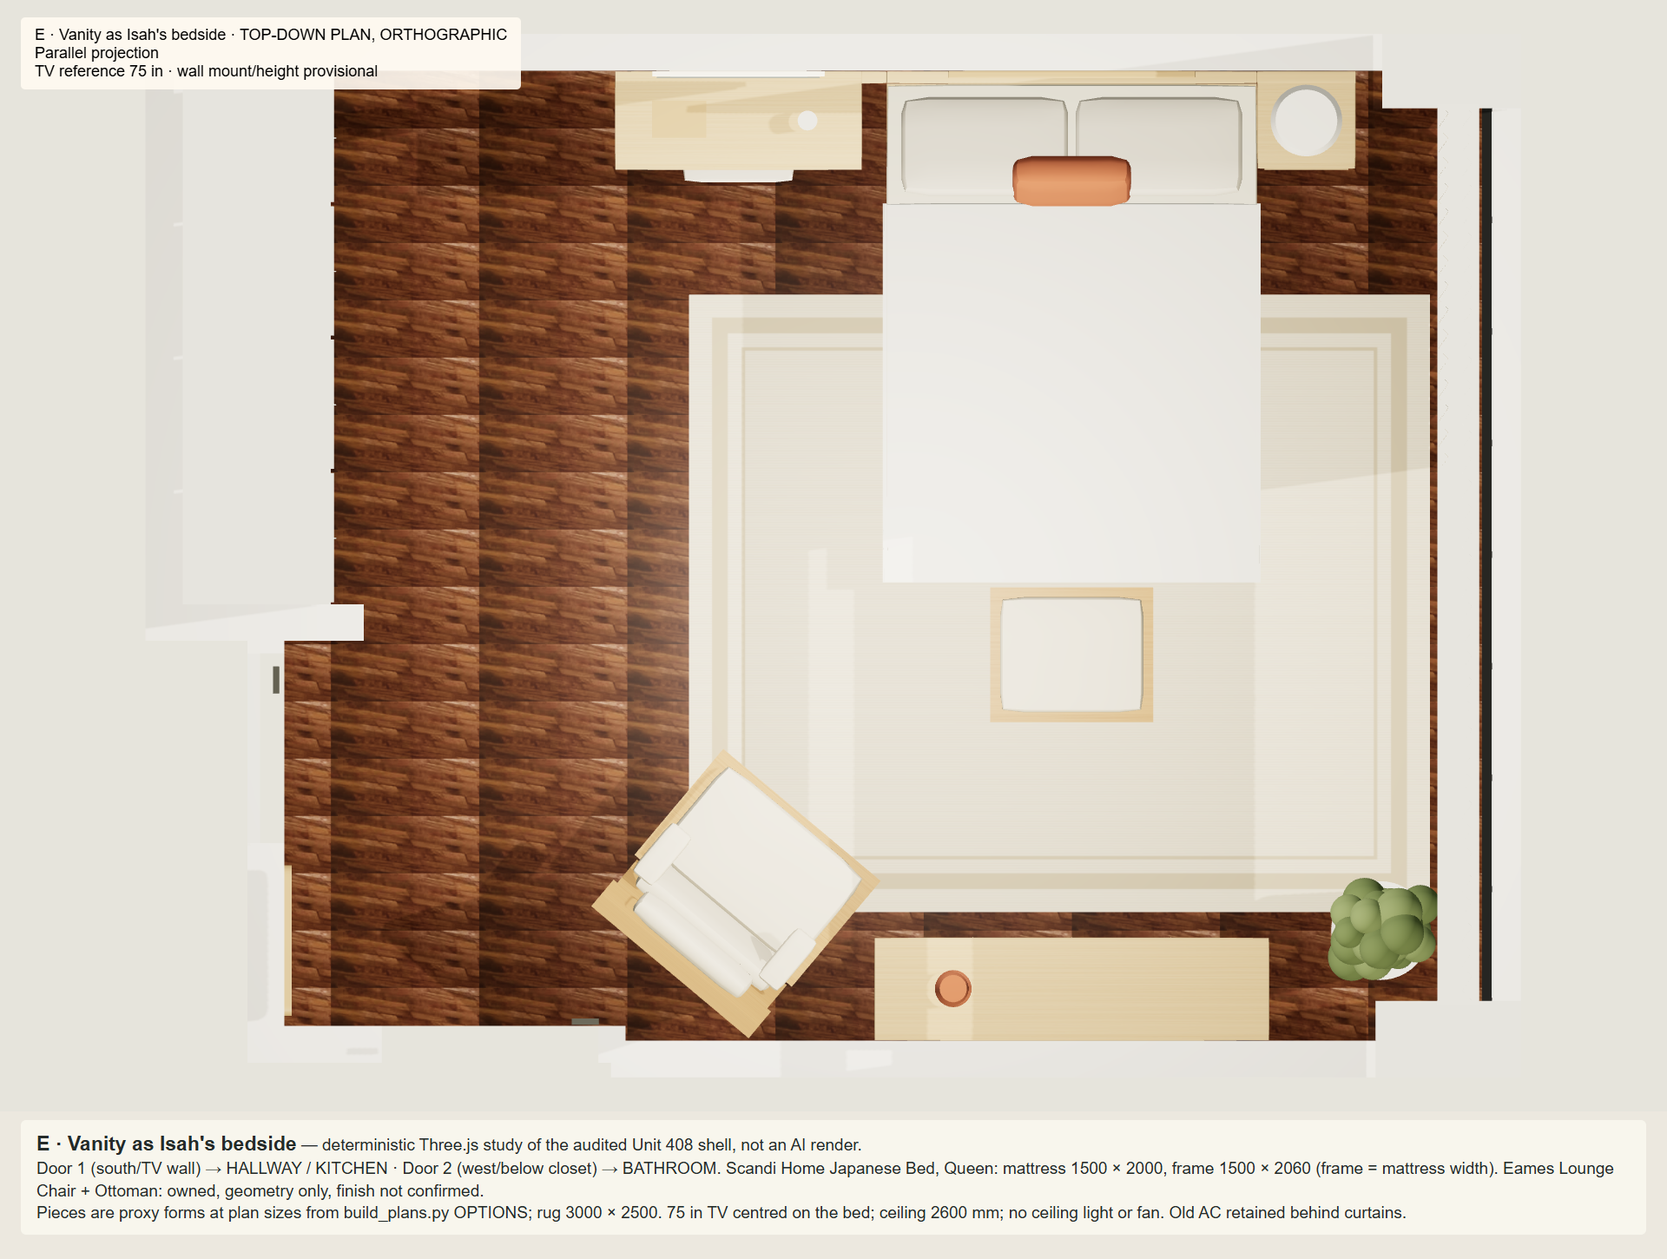
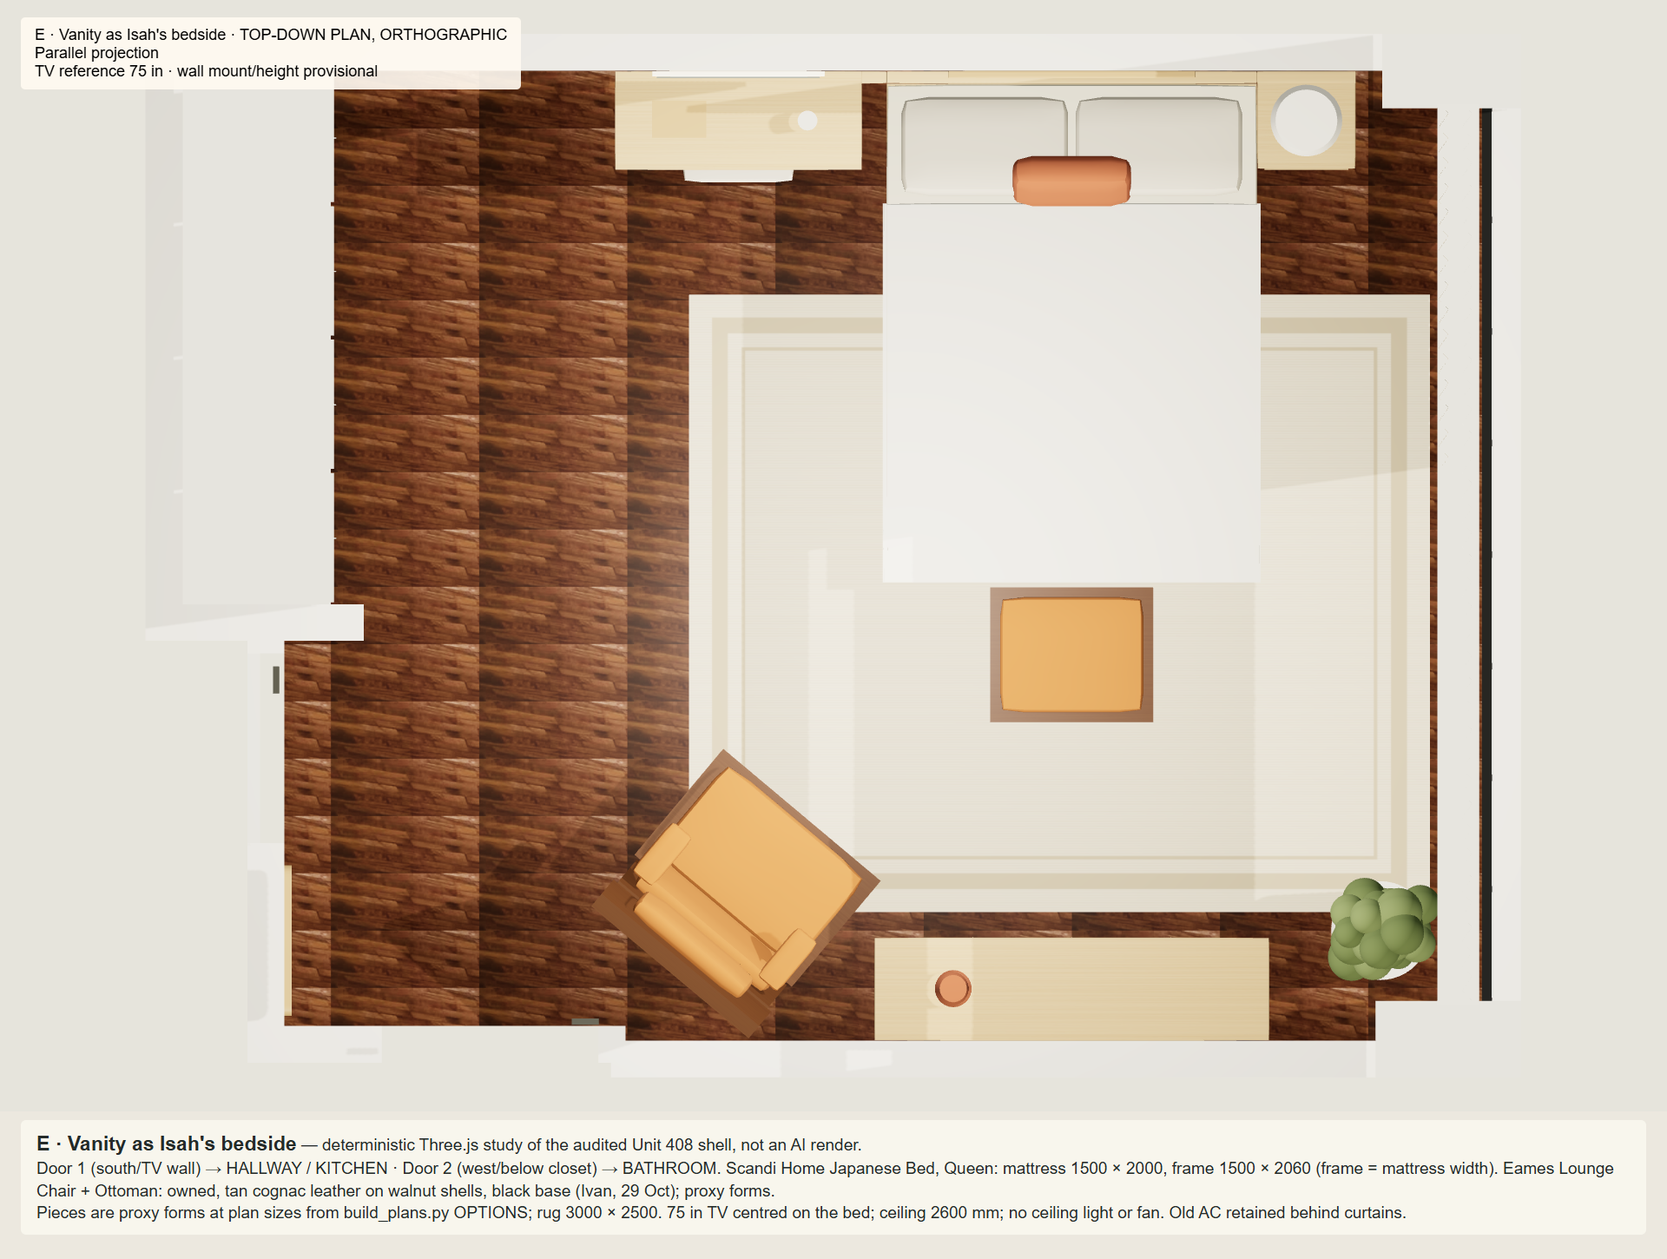
chore(queen): Carry the confirmed Eames finish into the set
Ivan confirmed the Eames pair on 29 Oct: tan cognac leather, walnut
veneer shells, black base. The 16 model views are re-rendered with the
chair and ottoman proxies coloured to that finish and the caption naming
it; the withheld reason and the set-page wording no longer call the
finish unconfirmed. Every view still shows the model view: the photoreal
pass stays behind the Codex quota (resets 2 Nov). Gate 16/16 PASS.

Changed region(s): [[0.3438, 0.5897, 0.5312, 0.8379], [0.5938, 0.4655, 0.7188, 0.5897], [0.125, 0.931, 0.4688, 0.9621]]

diff --git a/queen-oct28/index.html b/queen-oct28/index.html
@@ -18,6 +18,6 @@ figcaption{font-size:.85rem;color:#4d4339;margin-top:.3rem}.withheld figcaption{
 <p>Four layouts around the Scandi Home Japanese Bed, Queen (mattress 1500 x 2000), with room for the couple&#39;s own Eames lounge chair and ottoman, or a vanity. Bed, rug, curtains and walkways are to scale on the room model; each view is checked against that model before an AI style render is shown.</p>
 <p class="small">Day views only: night and golden-hour views do not exist yet for this set. Plan D (bed on the south wall) is excluded. Products beyond the bed are not scheduled yet; nothing here is a purchase list.</p>
 </header>
-<main><section class="scheme" id="plan-A"><h2><span>A</span> Eames corner</h2><p>Bed moves 350 mm west, toward the wardrobe. The Eames lounge chair and ottoman sit beside the TV console, turned 40° toward the bed.</p><p>For Isah: Eames chair + ottoman by the TV, angled to the bed.</p><ul><li>The 350 mm shift is what lets the ottoman stay in front of the chair and still leave about 0.65 m to walk to the window side of the bed.</li><li>Window side stays open; the plant fills the corner beside the right bedside.</li></ul><p class="small">Plan checks: 12 of 12 pass on the to-scale drawing.</p><div class="grid"><figure class="plan"><a href="assets/QA-room-plan.png"><img loading="lazy" src="assets/QA-room-plan.png" alt="Plan A, bird&#39;s-eye model view"></a><figcaption>Bird&#39;s-eye model view · plan A, true scale</figcaption></figure><figure class="withheld"><a href="assets/QA-room-entry.png"><img loading="lazy" src="assets/QA-room-entry.png" alt="Plan A · Entrance door · Day, model view"></a><figcaption><strong>Entrance door · Day</strong> · Deterministic room-model view at true scale, not an AI render (Entrance door · Day, eye 1.55 m). Render withheld: photoreal render staged behind the Codex image quota (resets 2 Nov 2026 14:08 PHT); the Eames chair finish must be confirmed by Ivan before the pass runs</figcaption></figure><figure class="withheld"><a href="assets/QA-room-bathroom.png"><img loading="lazy" src="assets/QA-room-bathroom.png" alt="Plan A · Bathroom door · Day, model view"></a><figcaption><strong>Bathroom door · Day</strong> · Deterministic room-model view at true scale, not an AI render (Bathroom door · Day, eye 1.55 m). Render withheld: photoreal render staged behind the Codex image quota (resets 2 Nov 2026 14:08 PHT); the Eames chair finish must be confirmed by Ivan before the pass runs</figcaption></figure><figure class="withheld"><a href="assets/QA-room-windowac.png"><img loading="lazy" src="assets/QA-room-windowac.png" alt="Plan A · Window corner · Day, model view"></a><figcaption><strong>Window corner · Day</strong> · Deterministic room-model view at true scale, not an AI render (Window corner · Day, eye 1.55 m). Render withheld: photoreal render staged behind the Codex image quota (resets 2 Nov 2026 14:08 PHT); the Eames chair finish must be confirmed by Ivan before the pass runs</figcaption></figure></div></section><section class="scheme" id="plan-B"><h2><span>B</span> Window vanity</h2><p>Bed moves 350 mm west, toward the wardrobe. A vanity sits on the north wall beside the window, lit from the side.</p><p>For Isah: Vanity 900 × 400 + stool, daylight from the right.</p><ul><li>Best make-up light: window to the side, never behind her.</li><li>Plant holds the south-east corner; the Eames can still go there later (see C).</li></ul><p class="small">Plan checks: 13 of 13 pass on the to-scale drawing.</p><div class="grid"><figure class="plan"><a href="assets/QB-room-plan.png"><img loading="lazy" src="assets/QB-room-plan.png" alt="Plan B, bird&#39;s-eye model view"></a><figcaption>Bird&#39;s-eye model view · plan B, true scale</figcaption></figure><figure class="withheld"><a href="assets/QB-room-entry.png"><img loading="lazy" src="assets/QB-room-entry.png" alt="Plan B · Entrance door · Day, model view"></a><figcaption><strong>Entrance door · Day</strong> · Deterministic room-model view at true scale, not an AI render (Entrance door · Day, eye 1.55 m). Render withheld: photoreal render staged behind the Codex image quota (resets 2 Nov 2026 14:08 PHT); the Eames chair finish must be confirmed by Ivan before the pass runs</figcaption></figure><figure class="withheld"><a href="assets/QB-room-bathroom.png"><img loading="lazy" src="assets/QB-room-bathroom.png" alt="Plan B · Bathroom door · Day, model view"></a><figcaption><strong>Bathroom door · Day</strong> · Deterministic room-model view at true scale, not an AI render (Bathroom door · Day, eye 1.55 m). Render withheld: photoreal render staged behind the Codex image quota (resets 2 Nov 2026 14:08 PHT); the Eames chair finish must be confirmed by Ivan before the pass runs</figcaption></figure><figure class="withheld"><a href="assets/QB-room-windowac.png"><img loading="lazy" src="assets/QB-room-windowac.png" alt="Plan B · Window corner · Day, model view"></a><figcaption><strong>Window corner · Day</strong> · Deterministic room-model view at true scale, not an AI render (Window corner · Day, eye 1.55 m). Render withheld: photoreal render staged behind the Codex image quota (resets 2 Nov 2026 14:08 PHT); the Eames chair finish must be confirmed by Ivan before the pass runs</figcaption></figure></div></section><section class="scheme" id="plan-C"><h2><span>C</span> Vanity + Eames corner</h2><p>Plan B plus the Eames lounge chair and ottoman beside the console, turned 40° toward the bed.</p><p>For Isah: Vanity by the window + Eames by the TV.</p><ul><li>Most for Isah, and still every walkway passes, ottoman in place.</li><li>The chair sits under the split AC (high on the wall); the plant moves to the window beside it.</li></ul><p class="small">Plan checks: 14 of 14 pass on the to-scale drawing.</p><div class="grid"><figure class="plan"><a href="assets/QC-room-plan.png"><img loading="lazy" src="assets/QC-room-plan.png" alt="Plan C, bird&#39;s-eye model view"></a><figcaption>Bird&#39;s-eye model view · plan C, true scale</figcaption></figure><figure class="withheld"><a href="assets/QC-room-entry.png"><img loading="lazy" src="assets/QC-room-entry.png" alt="Plan C · Entrance door · Day, model view"></a><figcaption><strong>Entrance door · Day</strong> · Deterministic room-model view at true scale, not an AI render (Entrance door · Day, eye 1.55 m). Render withheld: photoreal render staged behind the Codex image quota (resets 2 Nov 2026 14:08 PHT); the Eames chair finish must be confirmed by Ivan before the pass runs</figcaption></figure><figure class="withheld"><a href="assets/QC-room-bathroom.png"><img loading="lazy" src="assets/QC-room-bathroom.png" alt="Plan C · Bathroom door · Day, model view"></a><figcaption><strong>Bathroom door · Day</strong> · Deterministic room-model view at true scale, not an AI render (Bathroom door · Day, eye 1.55 m). Render withheld: photoreal render staged behind the Codex image quota (resets 2 Nov 2026 14:08 PHT); the Eames chair finish must be confirmed by Ivan before the pass runs</figcaption></figure><figure class="withheld"><a href="assets/QC-room-windowac.png"><img loading="lazy" src="assets/QC-room-windowac.png" alt="Plan C · Window corner · Day, model view"></a><figcaption><strong>Window corner · Day</strong> · Deterministic room-model view at true scale, not an AI render (Window corner · Day, eye 1.55 m). Render withheld: photoreal render staged behind the Codex image quota (resets 2 Nov 2026 14:08 PHT); the Eames chair finish must be confirmed by Ivan before the pass runs</figcaption></figure></div></section><section class="scheme" id="plan-E"><h2><span>E</span> Vanity as Isah&#x27;s bedside</h2><p>Bed moves 650 mm east toward the window. A long vanity replaces Isah&#x27;s bedside table; the Eames sits on the console&#x27;s door side.</p><p>For Isah: Vanity doubles as her nightstand + Eames.</p><ul><li>The ottoman lives at the foot of the bed. Pulled in front of the chair (dashed) it leaves only about 0.35 m to the window side of the bed, so slide it back after sitting.</li><li>Vanity is 3 m from the window: needs a lit mirror for make-up.</li><li>The TV&#x27;s right 0.66 m sits under the split AC (high on the wall): ask the installer about drip and airflow.</li></ul><p class="small">Plan checks: 13 of 14 pass on the to-scale drawing.</p><div class="grid"><figure class="plan"><a href="assets/QE-room-plan.png"><img loading="lazy" src="assets/QE-room-plan.png" alt="Plan E, bird&#39;s-eye model view"></a><figcaption>Bird&#39;s-eye model view · plan E, true scale</figcaption></figure><figure class="withheld"><a href="assets/QE-room-entry.png"><img loading="lazy" src="assets/QE-room-entry.png" alt="Plan E · Entrance door · Day, model view"></a><figcaption><strong>Entrance door · Day</strong> · Deterministic room-model view at true scale, not an AI render (Entrance door · Day, eye 1.55 m). Render withheld: photoreal render staged behind the Codex image quota (resets 2 Nov 2026 14:08 PHT); the Eames chair finish must be confirmed by Ivan before the pass runs</figcaption></figure><figure class="withheld"><a href="assets/QE-room-bathroom.png"><img loading="lazy" src="assets/QE-room-bathroom.png" alt="Plan E · Bathroom door · Day, model view"></a><figcaption><strong>Bathroom door · Day</strong> · Deterministic room-model view at true scale, not an AI render (Bathroom door · Day, eye 1.55 m). Render withheld: photoreal render staged behind the Codex image quota (resets 2 Nov 2026 14:08 PHT); the Eames chair finish must be confirmed by Ivan before the pass runs</figcaption></figure><figure class="withheld"><a href="assets/QE-room-windowac.png"><img loading="lazy" src="assets/QE-room-windowac.png" alt="Plan E · Window corner · Day, model view"></a><figcaption><strong>Window corner · Day</strong> · Deterministic room-model view at true scale, not an AI render (Window corner · Day, eye 1.55 m). Render withheld: photoreal render staged behind the Codex image quota (resets 2 Nov 2026 14:08 PHT); the Eames chair finish must be confirmed by Ivan before the pass runs</figcaption></figure></div></section>
-<section class="scheme"><h2>Before ordering</h2><p>The bed frame is 1500 mm wide (frame = mattress width on Scandi Home&#39;s size chart). The Eames chair and ottoman are the couple&#39;s own; their finish is not confirmed, so the model views show geometry only. The ceiling is 2600 mm in the model, not taped. Views marked withheld show the true-scale model view because their render did not pass QA.</p></section>
+<main><section class="scheme" id="plan-A"><h2><span>A</span> Eames corner</h2><p>Bed moves 350 mm west, toward the wardrobe. The Eames lounge chair and ottoman sit beside the TV console, turned 40° toward the bed.</p><p>For Isah: Eames chair + ottoman by the TV, angled to the bed.</p><ul><li>The 350 mm shift is what lets the ottoman stay in front of the chair and still leave about 0.65 m to walk to the window side of the bed.</li><li>Window side stays open; the plant fills the corner beside the right bedside.</li></ul><p class="small">Plan checks: 12 of 12 pass on the to-scale drawing.</p><div class="grid"><figure class="plan"><a href="assets/QA-room-plan.png"><img loading="lazy" src="assets/QA-room-plan.png" alt="Plan A, bird&#39;s-eye model view"></a><figcaption>Bird&#39;s-eye model view · plan A, true scale</figcaption></figure><figure class="withheld"><a href="assets/QA-room-entry.png"><img loading="lazy" src="assets/QA-room-entry.png" alt="Plan A · Entrance door · Day, model view"></a><figcaption><strong>Entrance door · Day</strong> · Deterministic room-model view at true scale, not an AI render (Entrance door · Day, eye 1.55 m). Render withheld: photoreal render staged behind the Codex image quota (resets 2 Nov 2026 14:08 PHT); Eames finish confirmed by Ivan on 29 Oct: tan cognac leather, walnut veneer shells, black base</figcaption></figure><figure class="withheld"><a href="assets/QA-room-bathroom.png"><img loading="lazy" src="assets/QA-room-bathroom.png" alt="Plan A · Bathroom door · Day, model view"></a><figcaption><strong>Bathroom door · Day</strong> · Deterministic room-model view at true scale, not an AI render (Bathroom door · Day, eye 1.55 m). Render withheld: photoreal render staged behind the Codex image quota (resets 2 Nov 2026 14:08 PHT); Eames finish confirmed by Ivan on 29 Oct: tan cognac leather, walnut veneer shells, black base</figcaption></figure><figure class="withheld"><a href="assets/QA-room-windowac.png"><img loading="lazy" src="assets/QA-room-windowac.png" alt="Plan A · Window corner · Day, model view"></a><figcaption><strong>Window corner · Day</strong> · Deterministic room-model view at true scale, not an AI render (Window corner · Day, eye 1.55 m). Render withheld: photoreal render staged behind the Codex image quota (resets 2 Nov 2026 14:08 PHT); Eames finish confirmed by Ivan on 29 Oct: tan cognac leather, walnut veneer shells, black base</figcaption></figure></div></section><section class="scheme" id="plan-B"><h2><span>B</span> Window vanity</h2><p>Bed moves 350 mm west, toward the wardrobe. A vanity sits on the north wall beside the window, lit from the side.</p><p>For Isah: Vanity 900 × 400 + stool, daylight from the right.</p><ul><li>Best make-up light: window to the side, never behind her.</li><li>Plant holds the south-east corner; the Eames can still go there later (see C).</li></ul><p class="small">Plan checks: 13 of 13 pass on the to-scale drawing.</p><div class="grid"><figure class="plan"><a href="assets/QB-room-plan.png"><img loading="lazy" src="assets/QB-room-plan.png" alt="Plan B, bird&#39;s-eye model view"></a><figcaption>Bird&#39;s-eye model view · plan B, true scale</figcaption></figure><figure class="withheld"><a href="assets/QB-room-entry.png"><img loading="lazy" src="assets/QB-room-entry.png" alt="Plan B · Entrance door · Day, model view"></a><figcaption><strong>Entrance door · Day</strong> · Deterministic room-model view at true scale, not an AI render (Entrance door · Day, eye 1.55 m). Render withheld: photoreal render staged behind the Codex image quota (resets 2 Nov 2026 14:08 PHT); Eames finish confirmed by Ivan on 29 Oct: tan cognac leather, walnut veneer shells, black base</figcaption></figure><figure class="withheld"><a href="assets/QB-room-bathroom.png"><img loading="lazy" src="assets/QB-room-bathroom.png" alt="Plan B · Bathroom door · Day, model view"></a><figcaption><strong>Bathroom door · Day</strong> · Deterministic room-model view at true scale, not an AI render (Bathroom door · Day, eye 1.55 m). Render withheld: photoreal render staged behind the Codex image quota (resets 2 Nov 2026 14:08 PHT); Eames finish confirmed by Ivan on 29 Oct: tan cognac leather, walnut veneer shells, black base</figcaption></figure><figure class="withheld"><a href="assets/QB-room-windowac.png"><img loading="lazy" src="assets/QB-room-windowac.png" alt="Plan B · Window corner · Day, model view"></a><figcaption><strong>Window corner · Day</strong> · Deterministic room-model view at true scale, not an AI render (Window corner · Day, eye 1.55 m). Render withheld: photoreal render staged behind the Codex image quota (resets 2 Nov 2026 14:08 PHT); Eames finish confirmed by Ivan on 29 Oct: tan cognac leather, walnut veneer shells, black base</figcaption></figure></div></section><section class="scheme" id="plan-C"><h2><span>C</span> Vanity + Eames corner</h2><p>Plan B plus the Eames lounge chair and ottoman beside the console, turned 40° toward the bed.</p><p>For Isah: Vanity by the window + Eames by the TV.</p><ul><li>Most for Isah, and still every walkway passes, ottoman in place.</li><li>The chair sits under the split AC (high on the wall); the plant moves to the window beside it.</li></ul><p class="small">Plan checks: 14 of 14 pass on the to-scale drawing.</p><div class="grid"><figure class="plan"><a href="assets/QC-room-plan.png"><img loading="lazy" src="assets/QC-room-plan.png" alt="Plan C, bird&#39;s-eye model view"></a><figcaption>Bird&#39;s-eye model view · plan C, true scale</figcaption></figure><figure class="withheld"><a href="assets/QC-room-entry.png"><img loading="lazy" src="assets/QC-room-entry.png" alt="Plan C · Entrance door · Day, model view"></a><figcaption><strong>Entrance door · Day</strong> · Deterministic room-model view at true scale, not an AI render (Entrance door · Day, eye 1.55 m). Render withheld: photoreal render staged behind the Codex image quota (resets 2 Nov 2026 14:08 PHT); Eames finish confirmed by Ivan on 29 Oct: tan cognac leather, walnut veneer shells, black base</figcaption></figure><figure class="withheld"><a href="assets/QC-room-bathroom.png"><img loading="lazy" src="assets/QC-room-bathroom.png" alt="Plan C · Bathroom door · Day, model view"></a><figcaption><strong>Bathroom door · Day</strong> · Deterministic room-model view at true scale, not an AI render (Bathroom door · Day, eye 1.55 m). Render withheld: photoreal render staged behind the Codex image quota (resets 2 Nov 2026 14:08 PHT); Eames finish confirmed by Ivan on 29 Oct: tan cognac leather, walnut veneer shells, black base</figcaption></figure><figure class="withheld"><a href="assets/QC-room-windowac.png"><img loading="lazy" src="assets/QC-room-windowac.png" alt="Plan C · Window corner · Day, model view"></a><figcaption><strong>Window corner · Day</strong> · Deterministic room-model view at true scale, not an AI render (Window corner · Day, eye 1.55 m). Render withheld: photoreal render staged behind the Codex image quota (resets 2 Nov 2026 14:08 PHT); Eames finish confirmed by Ivan on 29 Oct: tan cognac leather, walnut veneer shells, black base</figcaption></figure></div></section><section class="scheme" id="plan-E"><h2><span>E</span> Vanity as Isah&#x27;s bedside</h2><p>Bed moves 650 mm east toward the window. A long vanity replaces Isah&#x27;s bedside table; the Eames sits on the console&#x27;s door side.</p><p>For Isah: Vanity doubles as her nightstand + Eames.</p><ul><li>The ottoman lives at the foot of the bed. Pulled in front of the chair (dashed) it leaves only about 0.35 m to the window side of the bed, so slide it back after sitting.</li><li>Vanity is 3 m from the window: needs a lit mirror for make-up.</li><li>The TV&#x27;s right 0.66 m sits under the split AC (high on the wall): ask the installer about drip and airflow.</li></ul><p class="small">Plan checks: 13 of 14 pass on the to-scale drawing.</p><div class="grid"><figure class="plan"><a href="assets/QE-room-plan.png"><img loading="lazy" src="assets/QE-room-plan.png" alt="Plan E, bird&#39;s-eye model view"></a><figcaption>Bird&#39;s-eye model view · plan E, true scale</figcaption></figure><figure class="withheld"><a href="assets/QE-room-entry.png"><img loading="lazy" src="assets/QE-room-entry.png" alt="Plan E · Entrance door · Day, model view"></a><figcaption><strong>Entrance door · Day</strong> · Deterministic room-model view at true scale, not an AI render (Entrance door · Day, eye 1.55 m). Render withheld: photoreal render staged behind the Codex image quota (resets 2 Nov 2026 14:08 PHT); Eames finish confirmed by Ivan on 29 Oct: tan cognac leather, walnut veneer shells, black base</figcaption></figure><figure class="withheld"><a href="assets/QE-room-bathroom.png"><img loading="lazy" src="assets/QE-room-bathroom.png" alt="Plan E · Bathroom door · Day, model view"></a><figcaption><strong>Bathroom door · Day</strong> · Deterministic room-model view at true scale, not an AI render (Bathroom door · Day, eye 1.55 m). Render withheld: photoreal render staged behind the Codex image quota (resets 2 Nov 2026 14:08 PHT); Eames finish confirmed by Ivan on 29 Oct: tan cognac leather, walnut veneer shells, black base</figcaption></figure><figure class="withheld"><a href="assets/QE-room-windowac.png"><img loading="lazy" src="assets/QE-room-windowac.png" alt="Plan E · Window corner · Day, model view"></a><figcaption><strong>Window corner · Day</strong> · Deterministic room-model view at true scale, not an AI render (Window corner · Day, eye 1.55 m). Render withheld: photoreal render staged behind the Codex image quota (resets 2 Nov 2026 14:08 PHT); Eames finish confirmed by Ivan on 29 Oct: tan cognac leather, walnut veneer shells, black base</figcaption></figure></div></section>
+<section class="scheme"><h2>Before ordering</h2><p>The bed frame is 1500 mm wide (frame = mattress width on Scandi Home&#39;s size chart). The Eames chair and ottoman are the couple&#39;s own; their finish is tan cognac leather on walnut veneer shells with a black base (confirmed 29 Oct); the model views show proxy forms in that finish. The ceiling is 2600 mm in the model, not taped. Views marked withheld show the true-scale model view because their render did not pass QA.</p></section>
 </main></body></html>
